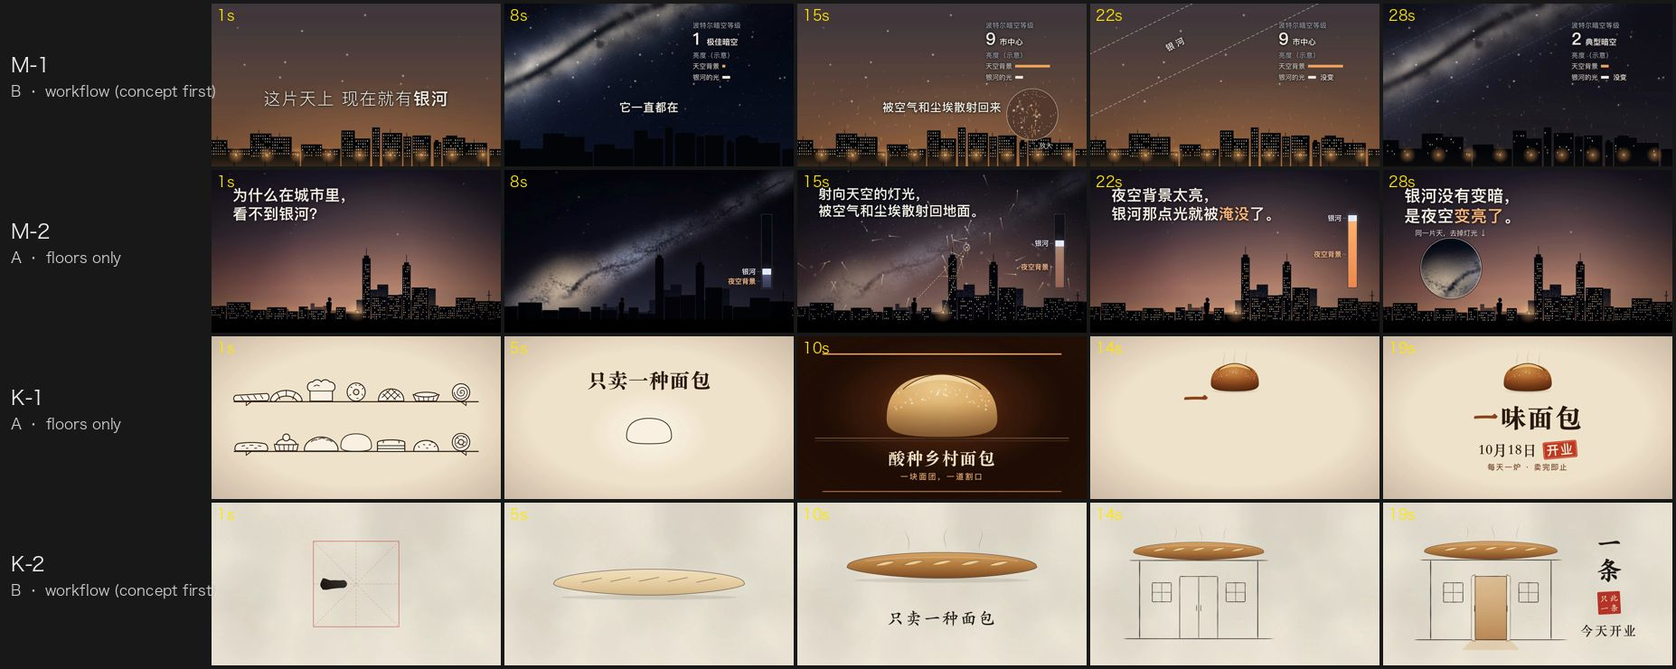
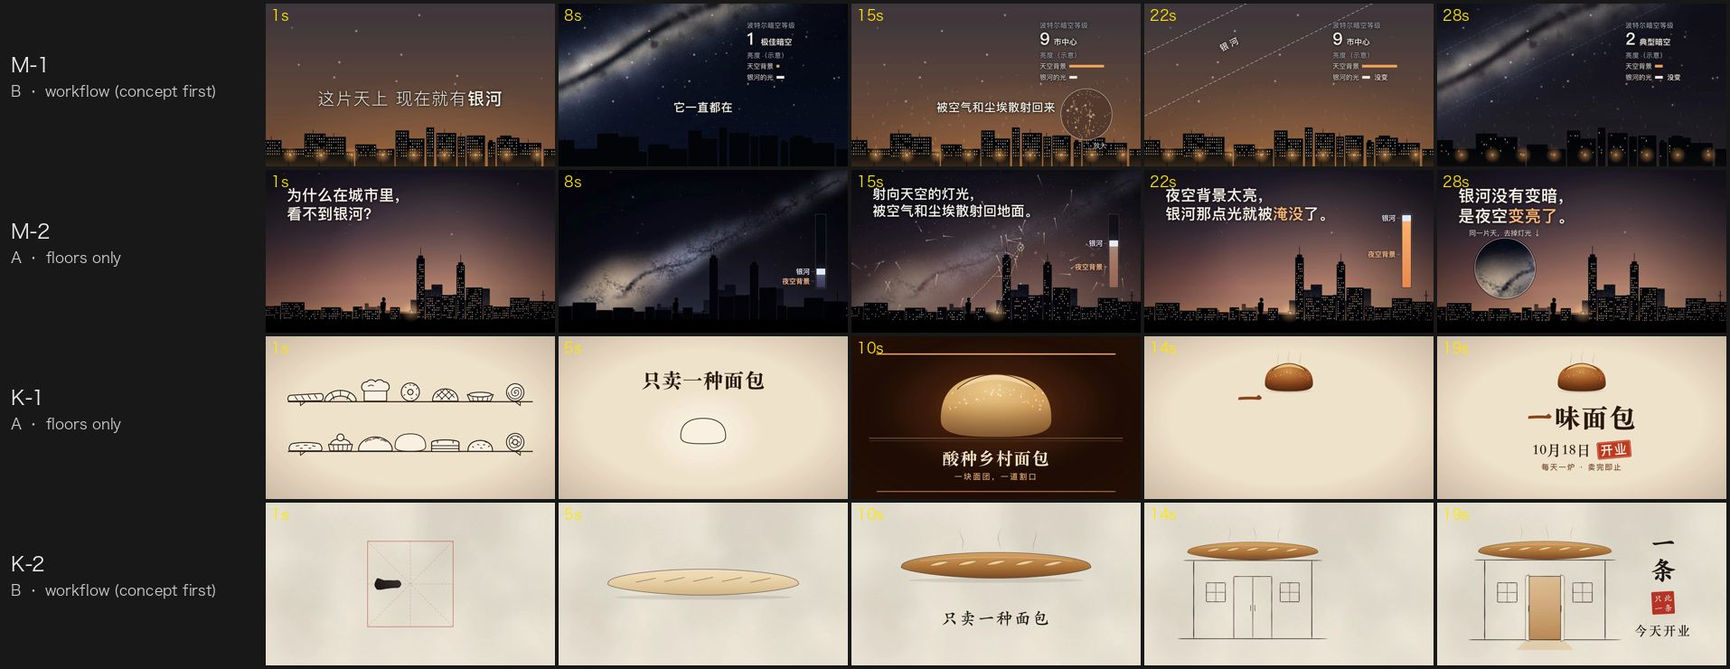
Research note 06: fixes from review
The HUD labels sat at the 44 px floor, not under it: the finding is that 44 px
is about 8 px on a phone in landscape (an open question for the floor). Static
stretches measured the same way for both arms are equal, so slowness does not
explain arm B's lower craft; the note says so and names the reviewer's actual
reasons. The freeze check is dropped (bin/vh check's d=3 missed both films);
quick adds a phone sheet and a first-2 s strip, playbook/02 gets the strip
command and the phone sizes. playbook 12 §6 keeps only the readout rule and
scopes the silence floor. Overstated index rows and changelog toned down; the
一条 brand clash and bakery A's date are in the note; figure labels widened.

diff --git a/docs/research/en/06-concept-first-ab.md b/docs/research/en/06-concept-first-ab.md
@@ -1,6 +1,6 @@
 # 06 · Does concept-first pay off? One request, floors only against the workflow
 
-*Written 2026-10-02 · Status: the concept-first workflow is merged ([#44](https://github.com/ZLHad/OpenVideoHarness/pull/44), [#45](https://github.com/ZLHad/OpenVideoHarness/pull/45)); the three changes this note led to are in this note's PR; the four films and the review are the author's local files, not in the repo · [中文](../06-concept-first-ab.md)*
+*Written 2026-10-02 · Status: the concept-first workflow is merged ([#44](https://github.com/ZLHad/OpenVideoHarness/pull/44), [#45](https://github.com/ZLHad/OpenVideoHarness/pull/45)); the changes this note led to are in this note's PR; the four films, the two projects and the review are the author's local files, not in the repo · [中文](../06-concept-first-ab.md)*
 
 ## Question
 
@@ -17,9 +17,10 @@
 - **Two arms**, one film per request each, four films in all. Same model (Claude Opus 5.5, as subagents), HyperFrames 0.8.82, 1920×1080, 30 fps, draft quality, about 45 minutes each.
   - **Arm A, floors only**: not allowed to open the repo's workflow docs (CLAUDE.md, type docs, playbooks, style library, recipes, cases, checklists); only the HyperFrames section of `engines/README.md`. Five floors given: every frame a pure function of t, no invented facts, minimum text size and hold, flash rate, the spec.
   - **Arm B, the workflow**: read CLAUDE.md as finalised in #44 and follow the `quick` path card (the user's words: "快速出一版，不用问我", a quick draft, don't ask me), including the concept step and `playbook/12-ideation.md`.
-- **Blind review**: a fresh-context reviewer (the same model, briefed as a harsh motion director) got only the four mp4s, a 1 fps contact sheet, a phone-size contact sheet and a frame-by-frame strip of the first 2 s for each, labelled M-1, M-2, K-1, K-2, without knowing which arm made which or that this was an A/B test. It scored the eight dimensions of the scoring layer (1–10, ≥ 8 means ready to post), compared each pair (more original, better made, which one to post), and rated how similar the two films' core ideas were (0–10). It also measured static stretches by frame-differencing.
+- **Blind review**: a fresh-context reviewer (the same model, briefed as a harsh motion director) got only the four mp4s, a 1 fps contact sheet, a phone-size contact sheet and a frame-by-frame strip of the first 2 s for each, labelled M-1, M-2, K-1, K-2, without knowing which arm made which or that this was an A/B test. It scored the eight dimensions of the scoring layer (1–10; every dimension ≥ 8 means ready to post), compared each pair (more original, better made, which one to post), and rated how similar the two films' core ideas were (0–10).
+- **Static stretches**: measured the same way for all four films: 480×270 greyscale, a frame counts as still when its mean difference from the next frame is under 0.3/255, and only runs of 2 s or more count.
 
-Sources: the four subagents' briefs and delivery reports, the two arm-B projects' `DECISIONS.md` and `NOTES.md`, the blind review; all the author's local files, not in the repo. The scoring dimensions are the scoring layer of [`templates/TASTE_CHECKLIST.md`](../../../templates/TASTE_CHECKLIST.md).
+Sources: the four subagents' briefs and delivery reports, the two arm-B projects' `DECISIONS.md`, `NOTES.md` and `index.html`, the blind review; all the author's local files, not in the repo. The scoring dimensions are the scoring layer of [`templates/TASTE_CHECKLIST.md`](../../../templates/TASTE_CHECKLIST.md).
 
 ## Findings
 
@@ -27,31 +28,39 @@ Sources: the four subagents' briefs and delivery reports, the two arm-B projects
 
 *Figure 1 · One film per row, five moments each. M-1 and K-2 are arm B (the workflow), M-2 and K-1 arm A (floors only).*
 
-**1. The concept-first films had newer ideas and worse craft.** For both requests the reviewer found arm B's film more original, and arm A's film better made and the one to post.
+**1. Both times the reviewer found the workflow's film more original, and both times it chose the floors-only film to post.**
 
 | Dimension | Milky Way · B (M-1) | Milky Way · A (M-2) | Bakery · A (K-1) | Bakery · B (K-2) |
 |---|---|---|---|---|
-| Concept | **7** | 6 | 7 | **8** |
+| Concept | 7 | 6 | 7 | 8 |
 | Hook | 4 | 3 | 5 | 5 |
-| Phone readability | 5 | **7** | 7 | **8** |
-| Motion | 6 | 6 | **7** | 5 |
-| Variety | 4 | 5 | **7** | 4 |
-| Composition and finish | 5 | **7** | **7** | 6 |
+| Phone readability | 5 | 7 | 7 | 8 |
+| Motion | 6 | 6 | 7 | 5 |
+| Variety | 4 | 5 | 7 | 4 |
+| Composition and finish | 5 | 7 | 7 | 6 |
 | Accuracy | 8 | 7 | 8 | 8 |
-| Silent clarity | 7 | 8 | **8** | 6 |
+| Silent clarity | 7 | 8 | 8 | 6 |
 | Mean | 5.8 | 6.1 | 7.0 | 6.3 |
 
-None of the four passes (each has at least one score ≤ 5). Both arm-B films score 1 higher on concept, and both score 4 on variety.
+None of the four passes: the bar is ≥ 8 on every dimension, and each film has a dimension at 3–5. Both arm-B films score 1 higher on concept. The mean differs by only 0.3 for the Milky Way pair and 0.7 for the bakery pair; one film's scores probably move 1–2 points between runs (not measured), so the means are not a result. What can be read is the reviewer's pairwise choice, the same both times: B newer, A better made, post A.
 
-**2. Where arm B lost: the slowness its concept chose was not made up for by change inside the frame.** Milky Way B's concept was "the same sky, one knob": a locked-off shot where only the city's light-pollution level changes; its `DECISIONS.md` overrides the type's "one idea per shot, cut on phrases" to get the locked-off shot. Bakery B's concept was "a written stroke becomes a baguette, then the shop sign". By frame-differencing the reviewer found: Milky Way B is unchanged for 0–4.5 s and almost still for 8.5 s at 18.5–27 s; Bakery B spends 5.5 s at 6.5–12 s on a floating baguette while a line of text types on. Both agents mentioned stillness in their delivery reports (Milky Way B adds that `freezedetect` flagged it), but `quick` has no reviewer and no step that asks for it to be fixed, so they shipped as they were.
+**2. Where arm B lost: the reviewer gave specific reasons, and "slowness" is not one that holds up.**
+- Milky Way B: the permanent HUD (light-pollution level, two brightness bars) is the concept itself, but its labels sit exactly at the 44 px floor (`.hk`, `.bl` and `.src` in the project's `index.html` are all 44 px), about 8 px on a 360 px phone sheet, which the reviewer could not read (phone readability 5, against 7 for A); its composition was also judged weaker than A's.
+- Bakery B: the key moment, ink becoming dough, is a dissolve, so "the actual transformation is never seen" (motion 5, against 7 for A); in the middle a baguette floats while a line of text types on, with no new event.
+- The reviewer gave both arm-B films 4 on variety, citing static stretches. Measured the same way, though, both arms are equally still:
 
-**3. The other one is text size.** Milky Way B's concept tells its answer through a permanent HUD (light-pollution level, two brightness bars): exactly the readout the concept card declares and that does not count as decoration. But its labels are 7–8 px at phone size, about 40 px at 1920 wide, under the 44 px floor. A concept can change taste, not floors, yet no step measures this: `bin/vh readcheck` checks hold times, not sizes.
+| | Milky Way · B | Milky Way · A | Bakery · A | Bakery · B |
+|---|---|---|---|---|
+| Static stretches ≥ 2 s, total | 12.8 s | 14.3 s | 9.0 s | 10.2 s |
+| Longest | 4.0 s (0.2–4.2 s) | 5.0 s (25.0–30.0 s) | 4.3 s (15.7–20.0 s) | 3.6 s (16.4–20.0 s) |
 
-**4. Without the workflow, the model comes up with much the same idea.** The Milky Way pair's core ideas rate 8/10 similar: the same city skyline, the lights going off to reveal the Milky Way, a "Milky Way light constant, background rising" bar, and the same paper (Falchi et al., 2016). The bakery pair rates 4/10: both make the character 一 ("one") the core, but arm A goes "a full shelf down to one loaf, whose score line becomes the 一 of the name" and arm B "a written stroke bakes into a baguette, then becomes the shop sign". Concept-first did not conjure ideas the model would not have had; it made a step the model would take anyway a required one, and left a record (each arm-B film wrote 3 concepts, reasons for rejecting 2, and 4–6 taste overrides).
+Arm A is no less still than arm B, and the Milky Way pair is the other way round. So "the concept chose slowness and that is why B lost" does not hold. What does differ is where the stillness falls: both arm-B films go still from the start (Milky Way 0.2 s, bakery 0.5 s), while arm A's first still stretch starts at 2.3 s and 4.0 s, and its longest falls on the end card. Stillness at the start hurts more than on the end card, which fits finding 4 on hooks; this is a guess, not measured on viewers.
 
-**5. All four hooks are weak** (3–5). Both arms opened slowly: a static question, an empty practice grid, a full shelf slowly emptying. `quick` makes no hook cards, and nothing checks the "hook" line on the concept card.
+**3. Without the workflow, the model comes up with much the same idea, at least in one pair.** The Milky Way pair's core ideas rate 8/10 similar: the same city skyline, the lights going off to reveal the Milky Way, a "Milky Way light constant, background rising" bar, and the same paper (Falchi et al., 2016). The bakery pair rates 4/10: both make the character 一 ("one") the core, but arm A goes "a full shelf down to one loaf, whose score line becomes the 一 of the name" and arm B "a written stroke bakes into a baguette, then becomes the shop sign"; in this pair B's idea was judged newer. Concept-first at least did one thing: it made a step the model would take anyway a required one, and left a record (each arm-B film wrote 3 concepts and the reasons for rejecting 2, and 3–6 taste overrides, each with a reason and the cost of reverting).
 
-**6. The cost is about the same.**
+**4. All four hooks are weak** (3–5). Both arms opened slowly: a static question, an empty practice grid, a full shelf slowly emptying. `quick` makes no hook cards, and nothing checks the "hook" line on the concept card.
+
+**5. The cost is about the same.**
 
 | | Milky Way · A | Milky Way · B | Bakery · A | Bakery · B |
 |---|---|---|---|---|
@@ -59,23 +68,32 @@ None of the four passes (each has at least one score ≤ 5). Both arm-B films sc
 | Tokens (subagent total) | 221k | 239k | 189k | 206k |
 | Tool calls | 53 | 53 | 42 | 42 |
 
+**6. Two things the reviewer noticed along the way.** Bakery B named the shop 一条, which the reviewer pointed out is a well-known media and retail brand, so the name needs checking first. Bakery A put an opening date, 10月18日 (18 October), on its end card: for a fictional shop that is not an invented fact, but arm B chose not to write a date; the reviewer gave both films 8 on accuracy, so that dimension does not separate this kind of difference.
+
 **7. Two places in the docs were unclear.** Both arm-B agents spent some reasoning on whether the floor "no digital silence mid-film" applies to a silent film the user asked for (both concluded it does not, but the docs did not say); type 02's prompt block asks for caption weight 800, and the local PingFang's heaviest is 600.
 
-Sources: the blind review (scores, pairs, similarity, static stretches by frame-differencing); the four subagents' delivery reports and usage records (time, tokens, tool calls); the two arm-B projects' `DECISIONS.md`. Figure 1 is frames taken from the four mp4s.
+Sources: the blind review (scores, pairs, similarity, the brand name); static stretches recomputed from the four mp4s as described above; the four subagents' delivery reports and usage records (time, tokens, tool calls); the two arm-B projects' `DECISIONS.md`, `NOTES.md` and `index.html` (text sizes); bakery A's `index.html` (the date). Figure 1 is frames taken from the four mp4s.
 
 ## What changed because of it
 
-In this note's PR, all of them steps `quick` was missing, none of them limits on concepts:
+In this note's PR. They fill checks `quick` was missing and clear up the unclear places; none of them limits concepts:
 
-- **Three more self-checks in quick** (CLAUDE.md, the quick card's step 5): a phone-size contact sheet for whether required text reads; a frame-by-frame strip of the first 2 s for whether the opening moves from frame 0; and any frozen stretch `bin/vh check` reports is fixed or explained on delivery. The commands follow `playbook/02-verification.md`.
-- **A concept cannot change floors; the two most often hit are spelled out** (`playbook/12-ideation.md` §6): the part of a permanent readout that people must read keeps the size floor; a "slow" concept (locked-off shot, long holds) needs change inside the frame, one event every 2–4 s, and any stretch of 3 s or more without change needs a reason.
-- **Two clarifications**: the digital-silence floor applies to films with sound; a silent film the user asked for, with no audio track, is outside it (CLAUDE.md, TASTE_CHECKLIST #18); type 02's weight reads "800, or the heaviest the local font has".
+- **Two more self-checks in quick** (CLAUDE.md, the quick card's step 5; the effort note at the top of `playbook/02-verification.md`): a phone-size contact sheet for whether required text reads on a phone (44 px in a landscape film is about 8 px on a 360 px sheet), and a frame-by-frame strip of the first 2 s for whether the opening moves from frame 0 and has something that stops the thumb. `playbook/02` gains the strip command.
+- **Readouts on a concept card should not sit at the floor** (`playbook/12-ideation.md` §6): a concept that tells its answer through permanent readouts checks the parts people must read on the phone sheet.
+- **Two clarifications**: the digital-silence floor applies to films with sound; a silent film the user asked for, with no audio track, is outside it (CLAUDE.md, `playbook/12` §6, TASTE_CHECKLIST #18); type 02's weight reads "800, or the heaviest the local font has".
+- **A fictional brand name is checked against real ones** (type 03's checks).
+
+Sources: the changes in this note's PR.
 
 ## Limitations and open questions
 
-- **A tiny sample**: two requests, one film per cell, one run. The model makes a different film every run, and one film's scores probably move 1–2 points between runs (not measured here). The differences are a direction, not a conclusion.
+- **A tiny sample**: two requests, one film per cell, one run, and the reviewer's scores move too. This shows a direction, not a conclusion.
 - **The reviewer is a model too**: the same model briefed as a reviewer, not people. How well its judgement of "original" and "well made" matches a human's is unknown.
-- **Only `quick` was compared**: `standard` and `studio` have human gates and a reviewer that should catch findings 2 and 3 in the scoring layer, but they were not run.
+- **Only `quick` was compared**: `standard` and `studio` have human gates and a reviewer that should catch finding 2 in the scoring layer, but they were not run.
 - **Only the picture was compared**: both requests asked for no sound, so the sound half of the workflow (score, foley, mix) is not in it.
 - **Arm A is not "clean"**: the subagents may have had the repo's CLAUDE.md in their context and were only told not to follow it; they read the HyperFrames section of `engines/README.md`, which carries some habits of its own.
-- **"Concept" is the thing under test**: the reviewer scored with the scoring layer, whose first dimension, concept, #44 added. Part of arm B's edge there may come from writing ideas the way the scoring layer asks for. The pairwise "more original" judgement does not depend on that dimension and agrees.
+- **"Concept" is the thing under test**: the reviewer scored with the scoring layer, whose first dimension, concept, #44 added; part of arm B's edge there may come from writing ideas the way the scoring layer asks for. The pairwise "more original" judgement does not use that dimension and agrees.
+- **The size floor and landscape**: `playbook/03` §4 and TASTE_CHECKLIST #6 say "at 1080 wide, headline 84 px / secondary 44 px". At 1080 wide (vertical), 44 px is about 15 px on a phone; at 1920 wide (landscape), about 8 px. Whether the floor should scale with the frame was not settled here; the phone sheet covers it for now.
+- **`bin/vh check`'s freeze detection misses this kind of stillness**: it uses `freezedetect=d=3`; Milky Way B's NOTES logged one hit and passed it, and bakery B's check reported no freeze, yet by the measure above both have stretches of over 3 s that barely move. So it was not made a new self-check.
+
+Sources: the two arm-B projects' `NOTES.md`; `check` in [`bin/vh`](../../../bin/vh); [`playbook/03-motion-design.md`](../../../playbook/03-motion-design.md) §4.

diff --git a/docs/research/06-concept-first-ab.md b/docs/research/06-concept-first-ab.md
@@ -1,6 +1,6 @@
 # 06 · 立意先行到底管不管用：同一句需求，只守底线对走流程
 
-*记录于 2026-10-02 · 状态：立意先行的流程已合并（[#44](https://github.com/ZLHad/OpenVideoHarness/pull/44)、[#45](https://github.com/ZLHad/OpenVideoHarness/pull/45)），这篇笔记带来的三处修改在本笔记的 PR 里；四支片子和评审记录是作者本地的文件，没有入库 · [English](en/06-concept-first-ab.md)*
+*记录于 2026-10-02 · 状态：立意先行的流程已合并（[#44](https://github.com/ZLHad/OpenVideoHarness/pull/44)、[#45](https://github.com/ZLHad/OpenVideoHarness/pull/45)），这篇笔记带来的几处修改在本笔记的 PR 里；四支片子、两个项目和评审记录是作者本地的文件，没有入库 · [English](en/06-concept-first-ab.md)*
 
 ## 问题
 
@@ -17,9 +17,10 @@
 - **两个组**，每组每句需求各做一支，共四支。都是同一个模型（Claude Opus 5.5，subagent），都用 HyperFrames 0.8.82、1920×1080、30 fps、draft 画质，都给约 45 分钟。
   - **A 组，只守底线**：不许打开仓库的流程文档（CLAUDE.md、类型文档、playbook、风格库、配方、案例、清单），只能读 `engines/README.md` 的 HyperFrames 一节。只给五条底线：每帧是 t 的纯函数、事实不编、字号和停留时间的下限、闪白频率、规格。
   - **B 组，走流程**：读 #44 定稿的 CLAUDE.md，按 `quick` 档的路径卡走（用户原话"快速出一版，不用问我"），包括立意一步和 `playbook/12-ideation.md`。
-- **盲评**：一个全新上下文的 reviewer（同一个模型，人设是严苛的动效导演），只拿到四支片子的 mp4、每秒一帧的联系表、手机尺寸的联系表和前 2 s 的逐帧 strip，标签是 M-1、M-2、K-1、K-2，不知道哪支是哪个组，也不知道这是 A/B 实验。它按打分层的八个维度打分（1–10，≥ 8 算能发），两两比较"哪支更有新意、哪支做得更好、只能发一支发哪支"，再给两支同题片子的核心点子打相似度（0–10）。它自己还用逐帧差分量了静止段。
+- **盲评**：一个全新上下文的 reviewer（同一个模型，人设是严苛的动效导演），只拿到四支片子的 mp4、每秒一帧的联系表、手机尺寸的联系表和前 2 s 的逐帧 strip，标签是 M-1、M-2、K-1、K-2，不知道哪支是哪个组，也不知道这是 A/B 实验。它按打分层的八个维度打分（1–10，每项 ≥ 8 才算能发），两两比较"哪支更有新意、哪支做得更好、只能发一支发哪支"，再给两支同题片子的核心点子打相似度（0–10）。
+- **静止段**：另外用同一个口径量了四支片子：480×270 灰度，相邻两帧的平均差小于 0.3/255 记为静止，只数连续 2 s 以上的段。
 
-来源：四个 subagent 的任务说明和交付报告、两个 B 组项目的 `DECISIONS.md` 和 `NOTES.md`、盲评报告；都是作者本地的文件，没有入库。打分维度见 [`templates/TASTE_CHECKLIST.md`](../../templates/TASTE_CHECKLIST.md) 的打分层。
+来源：四个 subagent 的任务说明和交付报告、两个 B 组项目的 `DECISIONS.md`、`NOTES.md` 和 `index.html`、盲评报告；都是作者本地的文件，没有入库。打分维度见 [`templates/TASTE_CHECKLIST.md`](../../templates/TASTE_CHECKLIST.md) 的打分层。
 
 ## 发现
 
@@ -27,31 +28,39 @@
 
 *图 1 · 每行一支片子，取 5 个时刻。M-1、K-2 是 B 组（走流程），M-2、K-1 是 A 组（只守底线）。*
 
-**1. 立意先行的片子点子更新，做工更差。** 两句需求里，reviewer 都认为 B 组那支更有新意，都认为 A 组那支做得更好、只能发一支时发 A 组那支。
+**1. 评审两次都觉得走流程的那支更有新意，两次都选了只守底线的那支去发。**
 
 | 维度 | 银河 · B（M-1） | 银河 · A（M-2） | 面包店 · A（K-1） | 面包店 · B（K-2） |
 |---|---|---|---|---|
-| 立意 | **7** | 6 | 7 | **8** |
+| 立意 | 7 | 6 | 7 | 8 |
 | 钩子 | 4 | 3 | 5 | 5 |
-| 手机可读 | 5 | **7** | 7 | **8** |
-| 运动质量 | 6 | 6 | **7** | 5 |
-| 变化 | 4 | 5 | **7** | 4 |
-| 构图与完成度 | 5 | **7** | **7** | 6 |
+| 手机可读 | 5 | 7 | 7 | 8 |
+| 运动质量 | 6 | 6 | 7 | 5 |
+| 变化 | 4 | 5 | 7 | 4 |
+| 构图与完成度 | 5 | 7 | 7 | 6 |
 | 内容准确 | 8 | 7 | 8 | 8 |
-| 静音可读 | 7 | 8 | **8** | 6 |
+| 静音可读 | 7 | 8 | 8 | 6 |
 | 平均 | 5.8 | 6.1 | 7.0 | 6.3 |
 
-四支都没过线（每支至少一项 ≤ 5）。B 组两支的"立意"各高 1 分，"变化"都只有 4 分。
+四支都没过线：线是每项 ≥ 8，每支都有 3–5 分的项。B 组两支的"立意"各高 1 分。平均分的差，银河只有 0.3，面包店 0.7；一支片子重跑一次，分数大概就会动 1–2 分（没量），所以平均分的差不能当结论，能看的是评审在两两比较里的选择：两次都是"B 更新、A 更好、发 A"。
 
-**2. B 组输在哪：立意自己选的"慢"，没有用画内的变化顶上。** 银河 B 的立意是"同一片天，只拧一个旋钮"：固定机位，全片只变城市的光害等级；它在 `DECISIONS.md` 里把"一镜一事、按句切"的类型默认改成了固定机位。面包店 B 的立意是"一横写成一根长棍，再变成店招"。reviewer 用逐帧差分量到：银河 B 开头 0–4.5 s 画面零变化，18.5–27 s 有 8.5 s 几乎不动；面包店 B 在 6.5–12 s 有 5.5 s 只是一根面包浮着、一行字打出来。两支都在交付报告里提到了静止的问题（银河 B 还说 `freezedetect` 报了冻结），但 `quick` 档没有 reviewer，也没有哪一步要求修掉，就这样交了。
+**2. B 组输在哪：评审给的理由是具体的几处，不是"慢"。**
+- 银河 B：常驻 HUD（光害等级和两根亮度条）是立意本身，可它的标签字号正好是 44 px 的下限（项目 `index.html` 里的 `.hk`、`.bl`、`.src` 都是 44 px），在 360 px 宽的手机联系表上约 8 px，评审读不出（手机可读 5，A 那支 7）；构图也被判不如 A。
+- 面包店 B：全片最关键的"墨变成面团"做成了叠化，评审说"真正的变形没让人看见"（运动质量 5，A 那支 7）；中段一根面包浮着、一行字打出来，没有新事件。
+- 评审的"变化"给 B 两支都打了 4，理由是静止段。但按同一口径量，两组的静止一样多：
 
-**3. 另一处是字号。** 银河 B 的立意靠一块常驻 HUD（光害等级、两根亮度条）讲答案，这正是立意卡上写明、不算装饰的读数；可它的标签在手机尺寸上只有 7–8 px，按 1920 宽换算约 40 px，低于 44 px 的底线。立意能改口味，改不了底线，但流程里没有一步专门去量它：`bin/vh readcheck` 只管停留时间，不管字号。
+| | 银河 · B | 银河 · A | 面包店 · A | 面包店 · B |
+|---|---|---|---|---|
+| 2 s 以上的静止段合计 | 12.8 s | 14.3 s | 9.0 s | 10.2 s |
+| 最长的一段 | 4.0 s（0.2–4.2 s） | 5.0 s（25.0–30.0 s） | 4.3 s（15.7–20.0 s） | 3.6 s（16.4–20.0 s） |
 
-**4. 没有流程，模型自己也会想到差不多的点子。** 银河这一对的核心点子相似度是 8/10：同样的城市天际线、关灯露出银河、"银河的光不变，背景涨上来"的亮度条，引用的是同一篇论文（Falchi 等，2016）。面包店这一对是 4/10：两支都把"一"字当成核心，但 A 组是"满架面包减到只剩一个，割口变成店名的一"，B 组是"写下的一横烤成长棍，再变成店招"。立意先行没有凭空造出模型想不到的点子，它把模型本来就会的那一步变成了必经的一步，并且留下了记录（B 组每支都写了 3 个立意、2 个被否掉的理由，各 4–6 条口味覆盖）。
+A 组的静止并不比 B 少，银河那对还多一些。所以"立意选了慢，B 才输"这个解释不成立。两组真正不同的是静止落在哪：B 两支的第一段静止都从开头就开始（银河 0.2 s、面包店 0.5 s），A 两支要到 2.3 s 和 4.0 s 才开始，最长的一段落在定版上。停在开头比停在结尾更伤人，这也和第 4 点的钩子对得上；这一条是推测，没有拿观众量过。
 
-**5. 钩子四支都弱**（3–5 分）。两组都用了慢开场：静止的问题句、空的练字格、满架面包慢慢掉。`quick` 档不出钩子卡，立意卡上的"钩子"一行也没有被检查。
+**3. 没有流程，模型自己也会想到差不多的点子，至少在一对里是这样。** 银河这一对的核心点子相似度 8/10：同样的城市天际线、关灯露出银河、"银河的光不变，背景涨上来"的亮度条，引用的是同一篇论文（Falchi 等，2016）。面包店这一对是 4/10：两支都把"一"字当成核心，A 是"满架面包减到只剩一个，割口变成店名的一"，B 是"写下的一横烤成长棍，再变成店招"。在这一对里，B 的点子被判更新。立意先行至少做到了一件事：把模型本来就会走的那一步变成必经的一步，并且留下了记录（B 组每支都写了 3 个立意和否掉另外 2 个的理由，口味覆盖 3–6 条，每条有理由和翻案的代价）。
 
-**6. 成本差不多。**
+**4. 钩子四支都弱**（3–5 分）。两组都用了慢开场：静止的问题句、空的练字格、满架面包慢慢掉。`quick` 档不出钩子卡，立意卡上的"钩子"一行也没有哪一步去检查。
+
+**5. 成本差不多。**
 
 | | 银河 · A | 银河 · B | 面包店 · A | 面包店 · B |
 |---|---|---|---|---|
@@ -59,23 +68,32 @@
 | token（subagent 合计） | 22.1 万 | 23.9 万 | 18.9 万 | 20.6 万 |
 | 工具调用 | 53 | 53 | 42 | 42 |
 
+**6. 评审顺带发现的两件事。** 面包店 B 给店起名"一条"，评审指出这是一个知名的媒体和零售品牌，要先查重名。面包店 A 在定版上写了一个开业日期"10月18日"：对一家虚构的店，这算不上编造事实，但 B 组自己选了不写日期；评审给两支的"内容准确"都是 8 分，这一项对这类差别没有区分度。
+
 **7. 流程文档里有两处说不清。** 两个 B 组 agent 都花了一段推理去判断"片中不出现数字静音"这条底线管不管一支用户要求的无声片（结论都是不管，但文档没写）；类型 02 的 Prompt 块写字幕字重 800，本机的苹方最粗只有 600。
 
-来源：盲评报告（打分、两两比较、相似度、逐帧差分量到的静止段）；四个 subagent 的交付报告和用量记录（耗时、token、工具调用）；两个 B 组项目的 `DECISIONS.md`。图 1 由四支片子的 mp4 取帧拼成。
+来源：盲评报告（打分、两两比较、相似度、品牌名）；静止段用上面的口径对四个 mp4 重算；四个 subagent 的交付报告和用量记录（耗时、token、工具调用）；两个 B 组项目的 `DECISIONS.md`、`NOTES.md` 和 `index.html`（字号）；面包店 A 的 `index.html`（日期）。图 1 由四支片子的 mp4 取帧拼成。
 
 ## 因此改了什么
 
-改在本笔记所在的 PR 里，都是 `quick` 档缺的那几步，不是给立意加限制：
+改在本笔记所在的 PR 里，都是补 `quick` 档缺的检查和说不清的地方，不是给立意加限制：
 
-- **quick 的自查多三样**（CLAUDE.md 的 quick 路径卡第 5 步）：手机尺寸的联系表看字读不读得出；前 2 s 的逐帧 strip 看开头是不是在动；`bin/vh check` 报的冻结段要么修掉，要么在交付里写明为什么留着。三样的命令照 `playbook/02-verification.md`。
-- **立意改不了底线，写明两条最容易撞的**（`playbook/12-ideation.md` 第 6 节）：常驻读数里要读的部分照样守字号下限；"慢"的立意（固定机位、长停留）要靠画内的变化顶上，每 2–4 s 一件画内的事，3 s 以上的静止要有理由。
-- **两处说清楚**：数字静音那条底线只管有声片，用户要的无声片不带音轨就不适用（CLAUDE.md、TASTE_CHECKLIST #18）；类型 02 的字重写成"800，本机字体没有就用它最粗的一档"。
+- **quick 的自查多两样**（CLAUDE.md 的 quick 路径卡第 5 步、`playbook/02-verification.md` 开头的档位说明）：一张手机尺寸的联系表，看必读字在手机上读不读得出（横屏片的 44 px 在 360 px 宽的联系表上只有约 8 px）；前 2 s 的逐帧 strip，看开头是不是第 0 帧就在动、有没有让人停下来的东西。`playbook/02` 补了 strip 的命令。
+- **立意卡上的读数别贴着下限**（`playbook/12-ideation.md` 第 6 节）：靠常驻读数讲答案的立意，读数里要人读的部分用手机联系表量过。
+- **说清楚两处**：数字静音那条底线只管有声片，用户要的无声片不带音轨就不适用（CLAUDE.md、`playbook/12` 第 6 节、TASTE_CHECKLIST #18）；类型 02 的字重写成"800，本机字体没有就用它最粗的一档"。
+- **虚构的品牌名先查重名**（类型 03 的自查重点）。
+
+来源：本笔记所在 PR 的改动。
 
 ## 局限与没解决的
 
-- **样本极小**：两句需求，每格一支，一次运行。模型每次跑出来都不一样，一支片子的分数本身就有 1–2 分的抖动（笔记里没量）。这里的差别只能当方向，不能当结论。
+- **样本极小**：两句需求，每格一支，一次运行，评审打的分本身就会抖。这里只能看方向，不能当结论。
 - **评审也是模型**：同一个模型扮演的 reviewer，不是人。它对"新意"和"做工"的判断和人一致到什么程度，不知道。
-- **只比了 `quick` 档**：`standard` 和 `studio` 有人工关卡和 reviewer，第 2、3 点的问题按理会在打分层被抓住，但这次没有跑。
+- **只比了 `quick` 档**：`standard` 和 `studio` 有人工关卡和 reviewer，第 2 点的问题按理会在打分层被抓住，但这次没有跑。
 - **只比了画面**：两句需求都不要声音，声音那一半流程（配乐、拟音、混音）没有进来。
 - **A 组并不"干净"**：subagent 的上下文里可能本来就带着仓库的 CLAUDE.md，只是被要求不看；它们读了 `engines/README.md` 的 HyperFrames 一节，那一节本身带着一些写法上的习惯。
-- **"立意"一项是这个实验要检验的东西本身**：reviewer 按打分层打分，打分层的第一项"立意"是 #44 加的。B 组在这一项上占便宜，部分可能来自它的点子写得更像打分层要的样子。两两比较"哪支更有新意"不依赖这一项，结论一致。
+- **"立意"一项正是要检验的东西**：评审按打分层打分，打分层的第一项"立意"是 #44 加的；B 组在这一项上占便宜，部分可能来自它的点子写得更像打分层要的样子。两两比较"哪支更有新意"不看这一项，结论一致。
+- **字号下限和横屏**：`playbook/03` 第 4 节和 TASTE_CHECKLIST #6 写的是"1080 宽主标题 84px / 辅助 44px"。竖屏 1080 宽时，44 px 在手机上约 15 px；横屏 1920 宽时只有约 8 px。下限要不要按画幅换算，这次没有定，先用手机联系表兜着。
+- **`bin/vh check` 的冻结检测抓不住这类静止**：它用 `freezedetect=d=3`，银河 B 的 NOTES 记了一段命中、判为通过，面包店 B 的 check 没报冻结；而按上面的口径，两支都有 3 s 以上几乎不动的段。所以没有把它当成新的自查项。
+
+来源：两个 B 组项目的 `NOTES.md`；[`bin/vh`](../../bin/vh) 的 `check`；[`playbook/03-motion-design.md`](../../playbook/03-motion-design.md) 第 4 节。

diff --git a/AGENTS.md b/AGENTS.md
@@ -41,7 +41,7 @@
 | 立意 | 自己想 3 个一句话点子，挑 1 个，写一行理由 | 关卡 ① 给 2–3 张立意卡，每张配一帧画面 | 同左，每张配一段 10–20 s 的草图（look-dev） |
 | 风格 | 从立意推出来，可以借 `styles/` 的 1 个预设，写明理由 | 写在每张立意卡的"画面"一行（专属，或借一个预设）；选卡就一起定了，人可以在回复里换 | 同左；每张卡的草图就是那种风格的小样，借来的预设人想看时在 E0 补小样 |
 | 分镜 | 简表：镜头、时长、reads | 完整 STORYBOARD + 分镜预览图 | 同左 + animatic |
-| 自查 | 整片一张联系表，20 条清单速查一遍 | 每个场景：联系表、关键动作 strip、局部 crop；20 条清单 | 同左，再加手机尺寸测试、循环接缝、无损帧确定性、静默故障扫描 |
+| 自查 | 整片一张联系表、一张手机联系表、前 2 s 的 strip，20 条清单速查一遍 | 每个场景：联系表、关键动作 strip、局部 crop；20 条清单 | 同左，再加手机尺寸测试、循环接缝、无损帧确定性、静默故障扫描 |
 | 独立评审（打分层） | 不做 | 1 轮：全新上下文的 reviewer 打 8 项分（含立意），修最差的 3 处 | ≥ 3 轮，8 项都 ≥ 8 才出片；达不到就带着分数进关卡 ③ |
 | 声音 | 可以没有，或一段配乐 / 配音加基础混音 | 配乐或配音 + 关键动作音效 + 按视频类型的混音 profile（`bin/vh mix … profile=`）+ `bin/vh qa` | 同左 + 每个动作的拟音和声像 + 最终混音 cue check + 混音报告（`bin/vh qa mix`）没有硬失败 |
 | 渲染与交付 | draft 画质即可，一个 mp4 | 正式画质 mp4 + 联系表 | 同左 + 网页版、GIF、封面，按需出 9:16 |
@@ -88,7 +88,7 @@ effort 管 agent 自己查得多细，导演模式管人拍板哪些事，两个
 2. **建项目和立意**：`bin/vh new <type> <slug> --effort quick`。先写 3 个一句话立意，挑一个（`playbook/12-ideation.md` 第 7 节最后一条），再读 BRIEF 末尾的 TYPE 块，决定留哪些默认。风格从立意推出来，合适的话借一个预设：`bin/vh style apply <preset> <project>`（`bin/vh style list` 挑），它的 `STYLE_PRESET.md` 会带进项目，写代码前读一遍。立意和风格各写一行理由进 `DECISIONS.md`；改了哪些口味默认，交付时一并列出。
 3. **写**：补齐 BRIEF；分镜只写简表（镜头、时长、reads）；然后写场景代码。HyperFrames 写完一段，用 `npx hyperframes snapshot --at <秒> --describe false` 看几个关键时刻。
 4. **出片**：HyperFrames 先 `export HYPERFRAMES_SKIP_SKILLS=1 DO_NOT_TRACK=1`，再 `npx hyperframes render --quality draft --output out/draft.mp4`；手绘类用 `node render.mjs --clip --out=out/draft.mp4`。
-5. **自查一遍**：`bin/vh sheet out/draft.mp4` 看整片联系表，对着 `TASTE_CHECKLIST.md` 的 20 条速查；有字就跑 `bin/vh readcheck`。再看三样（命令见 `playbook/02-verification.md`）：手机尺寸的联系表，必读字读不读得出、HUD 和标签有没有低于字号下限；前 2 s 的逐帧 strip，开头是不是第 0 帧就在动；`bin/vh check` 报的冻结段，要么修掉，要么在交付里写明为什么留着。`quick` 没有 reviewer，这三样最容易漏（`docs/research/06-concept-first-ab.md`）。
+5. **自查一遍**：`bin/vh sheet out/draft.mp4` 看整片联系表，对着 `TASTE_CHECKLIST.md` 的 20 条速查；有字就跑 `bin/vh readcheck`。再看两样（命令见 `playbook/02-verification.md` 的"手机测试"）：一张手机尺寸的联系表，必读字在手机上读不读得出（横屏片的 44 px 在 360 px 宽的联系表上只有约 8 px，读数、标签别贴着下限）；前 2 s 的逐帧 strip，开头是不是第 0 帧就在动、有没有让人停下来的东西。`quick` 没有 reviewer，这两样最容易漏（`docs/research/06-concept-first-ab.md`）。
 6. **声音**（要的话）：`bin/vh music` 或 `bin/vh tts`，再 `bin/vh mix`、`bin/vh qa`、`bin/vh mux`。
 7. **交付**：`bin/vh check` 必跑；交 mp4 路径、联系表，以及自己最不满意的 1–2 处。
 

diff --git a/CLAUDE.md b/CLAUDE.md
@@ -38,7 +38,7 @@
 | 立意 | 自己想 3 个一句话点子，挑 1 个，写一行理由 | 关卡 ① 给 2–3 张立意卡，每张配一帧画面 | 同左，每张配一段 10–20 s 的草图（look-dev） |
 | 风格 | 从立意推出来，可以借 `styles/` 的 1 个预设，写明理由 | 写在每张立意卡的"画面"一行（专属，或借一个预设）；选卡就一起定了，人可以在回复里换 | 同左；每张卡的草图就是那种风格的小样，借来的预设人想看时在 E0 补小样 |
 | 分镜 | 简表：镜头、时长、reads | 完整 STORYBOARD + 分镜预览图 | 同左 + animatic |
-| 自查 | 整片一张联系表，20 条清单速查一遍 | 每个场景：联系表、关键动作 strip、局部 crop；20 条清单 | 同左，再加手机尺寸测试、循环接缝、无损帧确定性、静默故障扫描 |
+| 自查 | 整片一张联系表、一张手机联系表、前 2 s 的 strip，20 条清单速查一遍 | 每个场景：联系表、关键动作 strip、局部 crop；20 条清单 | 同左，再加手机尺寸测试、循环接缝、无损帧确定性、静默故障扫描 |
 | 独立评审（打分层） | 不做 | 1 轮：全新上下文的 reviewer 打 8 项分（含立意），修最差的 3 处 | ≥ 3 轮，8 项都 ≥ 8 才出片；达不到就带着分数进关卡 ③ |
 | 声音 | 可以没有，或一段配乐 / 配音加基础混音 | 配乐或配音 + 关键动作音效 + 按视频类型的混音 profile（`bin/vh mix … profile=`）+ `bin/vh qa` | 同左 + 每个动作的拟音和声像 + 最终混音 cue check + 混音报告（`bin/vh qa mix`）没有硬失败 |
 | 渲染与交付 | draft 画质即可，一个 mp4 | 正式画质 mp4 + 联系表 | 同左 + 网页版、GIF、封面，按需出 9:16 |
@@ -85,7 +85,7 @@ effort 管 agent 自己查得多细，导演模式管人拍板哪些事，两个
 2. **建项目和立意**：`bin/vh new <type> <slug> --effort quick`。先写 3 个一句话立意，挑一个（`playbook/12-ideation.md` 第 7 节最后一条），再读 BRIEF 末尾的 TYPE 块，决定留哪些默认。风格从立意推出来，合适的话借一个预设：`bin/vh style apply <preset> <project>`（`bin/vh style list` 挑），它的 `STYLE_PRESET.md` 会带进项目，写代码前读一遍。立意和风格各写一行理由进 `DECISIONS.md`；改了哪些口味默认，交付时一并列出。
 3. **写**：补齐 BRIEF；分镜只写简表（镜头、时长、reads）；然后写场景代码。HyperFrames 写完一段，用 `npx hyperframes snapshot --at <秒> --describe false` 看几个关键时刻。
 4. **出片**：HyperFrames 先 `export HYPERFRAMES_SKIP_SKILLS=1 DO_NOT_TRACK=1`，再 `npx hyperframes render --quality draft --output out/draft.mp4`；手绘类用 `node render.mjs --clip --out=out/draft.mp4`。
-5. **自查一遍**：`bin/vh sheet out/draft.mp4` 看整片联系表，对着 `TASTE_CHECKLIST.md` 的 20 条速查；有字就跑 `bin/vh readcheck`。再看三样（命令见 `playbook/02-verification.md`）：手机尺寸的联系表，必读字读不读得出、HUD 和标签有没有低于字号下限；前 2 s 的逐帧 strip，开头是不是第 0 帧就在动；`bin/vh check` 报的冻结段，要么修掉，要么在交付里写明为什么留着。`quick` 没有 reviewer，这三样最容易漏（`docs/research/06-concept-first-ab.md`）。
+5. **自查一遍**：`bin/vh sheet out/draft.mp4` 看整片联系表，对着 `TASTE_CHECKLIST.md` 的 20 条速查；有字就跑 `bin/vh readcheck`。再看两样（命令见 `playbook/02-verification.md` 的"手机测试"）：一张手机尺寸的联系表，必读字在手机上读不读得出（横屏片的 44 px 在 360 px 宽的联系表上只有约 8 px，读数、标签别贴着下限）；前 2 s 的逐帧 strip，开头是不是第 0 帧就在动、有没有让人停下来的东西。`quick` 没有 reviewer，这两样最容易漏（`docs/research/06-concept-first-ab.md`）。
 6. **声音**（要的话）：`bin/vh music` 或 `bin/vh tts`，再 `bin/vh mix`、`bin/vh qa`、`bin/vh mux`。
 7. **交付**：`bin/vh check` 必跑；交 mp4 路径、联系表，以及自己最不满意的 1–2 处。
 

diff --git a/CHANGELOG.md b/CHANGELOG.md
@@ -2,9 +2,9 @@
 
 ## Unreleased
 
-**Research note 06: concept-first against floors only, and three self-checks for quick**
-- `docs/research/06-concept-first-ab.md` (and `en/`): one request, two arms, two requests (a 30 s Milky Way explainer, a 20 s bakery opening, both silent), four films by the same model, scored blind by a fresh reviewer on the eight dimensions. The workflow's films were judged more original both times (concept 7 vs 6, 8 vs 7) and worse made both times (means 5.8 vs 6.1 and 6.3 vs 7.0; variety 4 in both, from 4–8.5 s static stretches its slow concepts left unfilled, and one HUD under the size floor). The Milky Way pair's ideas are 8/10 similar, so the model gets much the same idea without the workflow; concept-first makes that step required and recorded. All four hooks scored 3–5. Time and tokens about equal. Figure: five frames per film.
-- Changes it led to: the quick card's self-check adds a phone-size contact sheet, a first-2 s strip and fixing or explaining frozen stretches `bin/vh check` reports; `playbook/12-ideation.md` §6 spells out the two floors concepts hit (text size of readouts people must read; a slow concept needs change inside the frame every 2–4 s); the digital-silence floor says it applies to films with sound (CLAUDE.md, TASTE_CHECKLIST #18), which both workflow agents had to reason out; type 02's caption weight falls back to the local font's heaviest; type 03's checks add searching a fictional brand name for a real one.
+**Research note 06: concept-first against floors only, and two self-checks for quick**
+- `docs/research/06-concept-first-ab.md` (and `en/`): two arms, two requests (a 30 s Milky Way explainer, a 20 s bakery opening, both silent), four films by the same model, scored blind by a fresh reviewer on the eight dimensions. Both times the reviewer found the workflow's film more original (concept 7 vs 6, 8 vs 7) and chose the floors-only film to post; the means differ by 0.3 and 0.7, within run-to-run noise, so the pairwise choices are what the note reads. Its reasons: labels sitting exactly at the 44 px floor, about 8 px on a phone, and a key transformation done as a dissolve. Slowness does not explain it: measured the same way (frame differences), both arms have as much stillness, though arm B's starts at the very beginning. In one pair (Milky Way, 8/10 similar) the model reached much the same idea without the workflow. All four hooks scored 3–5; time and tokens about equal. Figure: five frames per film.
+- Changes it led to: the quick card's self-check (and `playbook/02`'s effort note) adds a phone-size contact sheet and a first-2 s strip, with the strip command and what 44 px becomes on a phone; `playbook/12-ideation.md` §6 says readouts people must read should not sit at the floor; the digital-silence floor says it applies to films with sound (CLAUDE.md, playbook 12, TASTE_CHECKLIST #18), which both workflow agents had to reason out; type 02's caption weight falls back to the local font's heaviest; type 03's checks add searching a fictional brand name for a real one (one film named its bakery 一条, a known brand). Open: whether the 44 px floor, written for 1080 wide, should scale for landscape.
 
 **Five full-film skeletons that start from a concept**
 - Why: playbook 12 asks for the concept first; the five concepts in `cases/oneshot-five.md` are worth having as ready skeletons, next to the three energy-arc ones.

diff --git a/playbook/12-ideation.md b/playbook/12-ideation.md
@@ -108,7 +108,7 @@
 
 ## 6. 立意和规则：底线不动，口味可以改
 
-**底线**在任何立意、任何档位下都不动：每一帧是 t 的纯函数，事实照抄原文，字号和阅读时间的下限，片中不出现数字静音，闪白频率，素材许可，不在文件里写 key。`TASTE_CHECKLIST.md` 里标了【底线】的条目也属于这一层。
+**底线**在任何立意、任何档位下都不动：每一帧是 t 的纯函数，事实照抄原文，字号和阅读时间的下限，片中不出现数字静音（有声片；用户要的无声片不带音轨，不适用），闪白频率，素材许可，不在文件里写 key。`TASTE_CHECKLIST.md` 里标了【底线】的条目也属于这一层。
 
 **口味默认**是没有立意时的稳妥做法，立意需要时可以反着来：
 
@@ -129,10 +129,7 @@
 - 公司 showreel 用霓虹、铬面和多个饱和色：混搭本身就是要证明的"什么都能做"；
 - 常驻的 HUD 读数（3 秒钟那支的计时和慢放倍数）：每个读数都在变、都承载信息，不是 #20 说的装饰。
 
-立意最容易撞的两条底线（`docs/research/06-concept-first-ab.md` 里两支片子都撞了）：
-
-- **字号**：靠常驻读数讲答案的立意（HUD、仪表、标签），读数里要人读的部分照样守字号下限，用手机尺寸的联系表量；只要求"看得出在走"的跑动数字不算。
-- **"慢"不等于不动**：固定机位、长停留这类立意，要靠画内的变化顶上，每 2–4 s 一件画内的事（一盏灯灭、一根条涨、一句新字）；3 s 以上什么都不变的段落要有理由，`bin/vh check` 报冻结时修掉或写明。
+**读数别贴着下限**：靠常驻读数讲答案的立意（HUD、仪表、标签），读数里要人读的部分用手机联系表量过。`docs/research/06-concept-first-ab.md` 里一支片子的标签正好是 44 px 的下限，横屏下在手机上约 8 px，评审读不出；只要求"看得出在走"的跑动数字不算。
 
 FunTech 在终场前用了约 1 s 真静音。这碰的是底线，不在可改之列：要那种效果，做成"屏息"：留一层低音垫，镜头慢漂，不要声画一起停死（`playbook/04-audio.md`、TASTE_CHECKLIST #18）。
 

diff --git a/playbook/02-verification.md b/playbook/02-verification.md
@@ -5,9 +5,9 @@
 ## 七层检查
 
 做到第几层，按努力程度定（CLAUDE.md"努力程度"）：
-- `quick`：第 1、2 层，加上整片一张联系表，出片前跑 `bin/vh check`；
+- `quick`：第 1、2 层，加上整片一张联系表、一张手机联系表和前 2 s 的逐帧 strip（命令见下文"手机测试"），出片前跑 `bin/vh check`；
 - `standard`：七层都做，第 5 层的独立评审做 1 轮；
-- `studio`：七层都做，第 5 层至少 3 轮，外加下文的手机测试、循环接缝、无损确定性和音频 QA。
+- `studio`：七层都做，第 5 层至少 3 轮，外加下文的循环接缝、无损确定性和音频 QA（手机测试每一档都做）。
 
 1. **能不能跑**：lint、编译、dry-run。Manim 的报错按 ScopeRefine 的顺序修：先改出错行前后 ±1 行，不行就改整个代码块，再不行就重写整个场景。
 2. **不看图的结构检查**（确定性检验：从中间抽几帧单独渲染，和整片里的同一帧比对，要逐像素相同，或者 PSNR ≥ 45 dB；比的是无损 PNG 帧，不是编码后的 mp4，原因见下文"确定性"；`ffmpeg -i a.png -i b.png -lavfi psnr -f null -`）：
@@ -99,6 +99,14 @@ ffmpeg -i out.mp4 -vf "fps=1/2,scale=360:-1:flags=area,tile=3x4" out/check/phone
 ```
 
 整张图的长边控制在约 1500 px 以内。图太大时，读图会把它再缩一次，测出来就不准了。
+
+字号下限换到手机上是多大：竖屏 1080 宽时，44 px 在 360 px 的格子里约 15 px；横屏 1920 宽时只有约 8 px，贴着下限的标签在手机上读不出（`docs/research/06-concept-first-ab.md`）。
+
+**开头 2 秒**：钩子要在第 0 帧就开始。把前 60 帧（30 fps 的 2 s）逐帧拼成一张，看画面是不是一开始就在动、有没有让人停下来的东西：
+
+```bash
+ffmpeg -i out/draft.mp4 -vf "select='lt(n,60)',scale=320:-1,tile=10x6" -vsync vfr -frames:v 1 out/check/first2s.png
+```
 
 **循环接缝**：GIF、网页背景、平台自动循环这类交付物，末帧后面紧跟着首帧。把末 6 帧和首 6 帧拼成一条，像观众那样连着读：
 

diff --git a/docs/research/en/README.md b/docs/research/en/README.md
@@ -13,7 +13,7 @@ Some things we measured while making video with code, and what we changed in the
 | 03 | [Same code, different pixels](03-render-determinism.md) | GPU text rasterisation, the capture path and x264 threads each made the output differ, and x264 amplified a few pixels into a different stream. CPU rasterisation plus single-threaded encoding made the swatches byte-identical, at the cost of a one-time picture change and slower renders. |
 | 04 | [How long text has to stay on screen](04-readability.md) | Only 5 of the intro film v3's 63 on-screen texts stay long enough, and none of the 24 in the stretch that prompted the review (median readable 0.9 s, 2.7 s required): labels follow the camera, are pushed to half transparency by the safe frame, and decoding eats the reading time. |
 | 05 | [Chapters, motif and dynamic arc](05-music-form.md) | The intro film's score is a loudness plateau, its loudest section only 1.8 LU above the second; the three demos have a valley and a peak. With nobody able to listen, loudness curves, note density and parts sounding measure chapters and arc. |
-| 06 | [Does concept-first pay off?](06-concept-first-ab.md) | One request, floors only against the workflow, two films each, blind review: the workflow's ideas were judged newer both times (concept +1), its craft worse both times (variety 4 in both, one HUD under the size floor). Without the workflow the model comes up with much the same idea (the Milky Way pair is 8/10 similar). So `quick` gets three more self-checks. |
+| 06 | [Does concept-first pay off?](06-concept-first-ab.md) | One request, floors only against the workflow, two films each, blind review: both times the reviewer found the workflow's film more original and chose the floors-only film to post (for text unreadable on a phone and a key transformation lost in a dissolve, not slowness: measured the same way, both arms are equally still). In one of the two pairs the model reached much the same idea without the workflow. So `quick` gets a phone sheet and a first-2 s strip. |
 
 ## Figures
 

diff --git a/docs/research/README.md b/docs/research/README.md
@@ -13,7 +13,7 @@
 | 03 | [同一份代码，为什么渲出不同的像素](03-render-determinism.md) | GPU 文字光栅、截帧路径和 x264 线程各自让输出不同，x264 再把几个像素放大成整条码流的差别。CPU 光栅加单线程编码之后样片逐字节相同，代价是画面变一次、渲染慢一些。 |
 | 04 | [画面上的字要停多久](04-readability.md) | 介绍片 v3 的 63 条画面文字只有 5 条停够，引出这次核对的那一段 24 条全不够（读得到的中位数 0.9 s，要求 2.7 s）：标签跟着镜头走、被安全框推成半透明、decode 吃掉读的时间。 |
 | 05 | [配乐的篇章、主题和起伏](05-music-form.md) | 介绍片配乐的响度是一块平台，最响的一段只比第二响高 1.8 LU；三首示范有谷有峰。没人能听时，用响度曲线、音头密度和发声声部数来量篇章和起伏。 |
-| 06 | [立意先行到底管不管用](06-concept-first-ab.md) | 同一句需求，只守底线对走流程，各做两支、盲评：走流程的点子都被判更新（"立意"各高 1 分），做工都被判更差（"变化"都只有 4 分，一支的 HUD 字低于字号下限）。没有流程，模型自己也会想到差不多的点子（银河那一对相似度 8/10）。因此给 `quick` 加了三样自查。 |
+| 06 | [立意先行到底管不管用](06-concept-first-ab.md) | 同一句需求，只守底线对走流程，各做两支、盲评：评审两次都觉得走流程的那支更有新意，两次都选了只守底线的那支去发（理由是手机上读不出的字、叠化掉的关键变形，不是"慢"：按同一口径量，两组静止一样多）。两对里有一对，模型不走流程也想到了差不多的点子。因此给 `quick` 加了手机联系表和前 2 s 的 strip。 |
 
 ## 图
 
